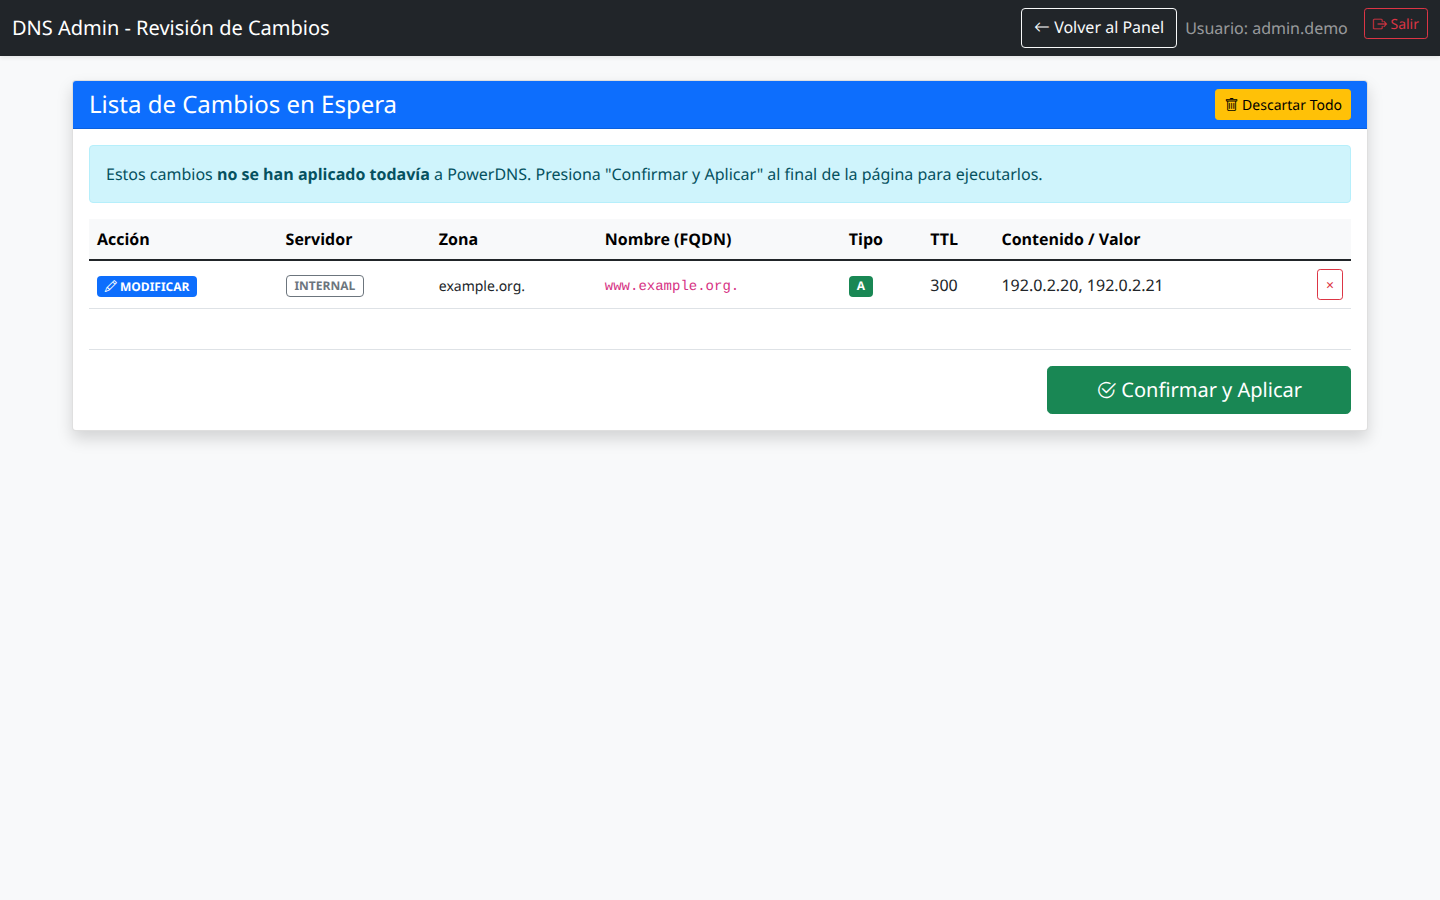
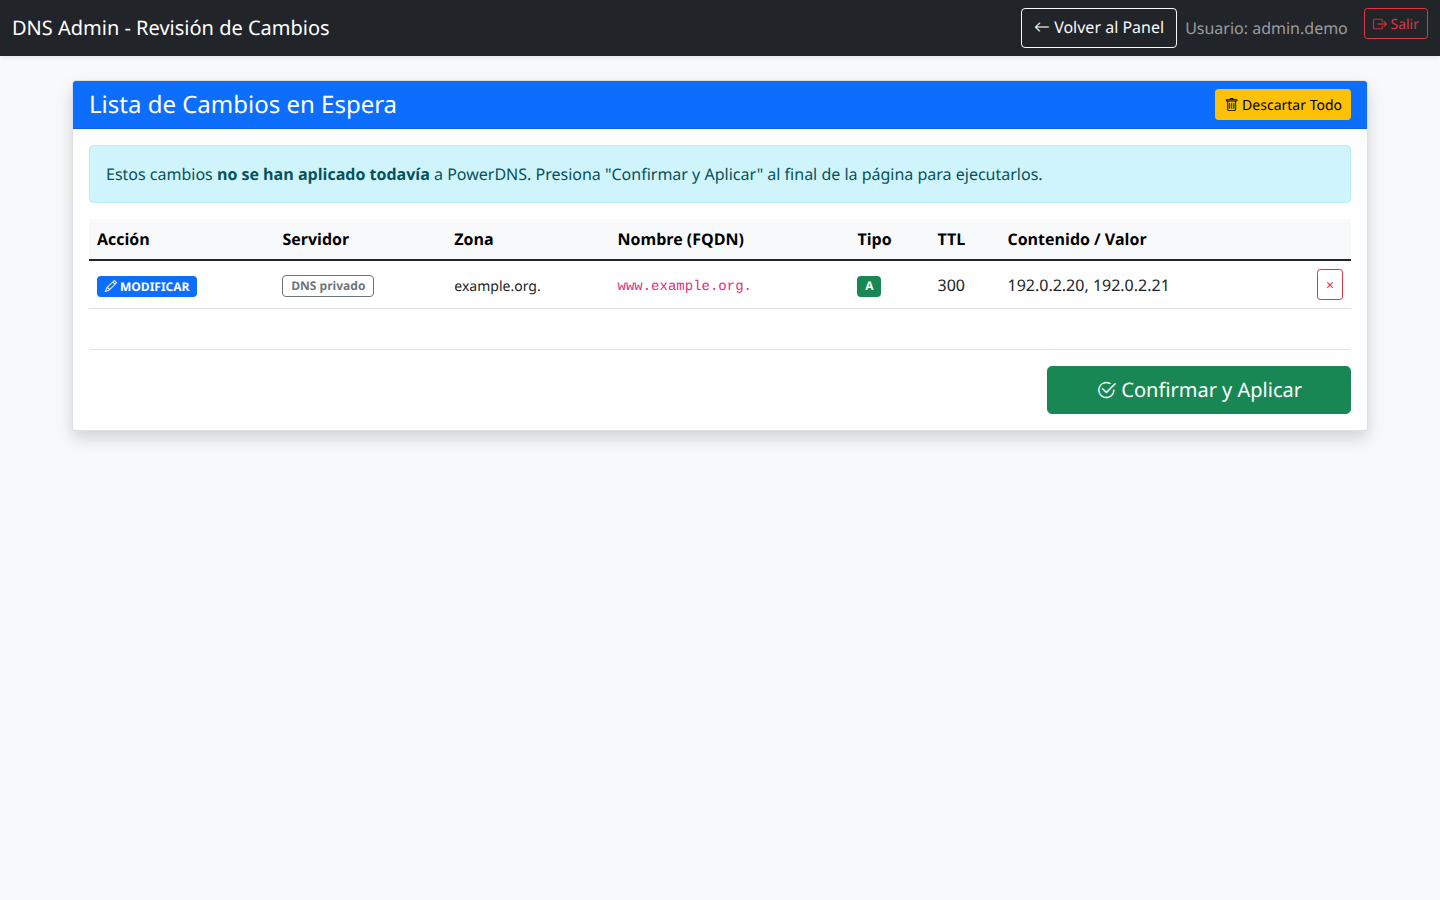
Clarify private and public DNS labels and simplify header

diff --git a/template/dashboard.html b/template/dashboard.html
@@ -101,15 +101,15 @@
 
 <body>
     <nav class="navbar navbar-dark sticky-top shadow-sm"
-        style="background-color: {% if current_server=='external' %}#ff7043{% else %}#1565c0{% endif %};">
+        style="background-color: {% if current_server=='external' %}#c2410c{% else %}#1565c0{% endif %};">
         <div class="container-fluid">
             <a class="navbar-brand d-flex align-items-center gap-2" href="/" style="font-size: 1.75rem;">
-                <i class="bi bi-hdd-network" aria-hidden="true"></i>DNS Admin {% if current_server=='external' %}(Internet){% else
-                %}(Interno){% endif %}            </a>
+                <i class="bi bi-hdd-network" aria-hidden="true"></i>DNS Admin
+            </a>
             <!-- pill fija con el servidor activo -->
             <span class="badge rounded-pill d-flex align-items-center gap-1 {% if current_server=='external' %}bg-dark{% else %}bg-light text-dark{% endif %}">
                 <i class="bi bi-{% if current_server=='external' %}globe-americas{% else %}hdd-network{% endif %}" aria-hidden="true"></i>
-                {% if current_server=='external' %}Internet{% else %}Interno{% endif %}
+                {% if current_server=='external' %}DNS público{% else %}DNS privado{% endif %}
             </span>
             <form action="{{ url_for('search_records') }}" method="GET" role="search"
                 class="mx-auto my-1" style="width: min(36rem, 100%);">
@@ -158,11 +158,11 @@
     <ul class="nav nav-tabs">
         <li class="nav-item">
             <a class="nav-link {% if current_server=='internal' and search_results is not defined %}active{% endif %}" href="/?server=internal"
-                style="background-color:#e0f7fa;"><i class="bi bi-hdd-network" aria-hidden="true"></i> Interno</a>
+                style="background-color:#e0f7fa;"><i class="bi bi-hdd-network" aria-hidden="true"></i> DNS privado</a>
         </li>
         <li class="nav-item">
             <a class="nav-link {% if current_server=='external' and search_results is not defined %}active{% endif %}" href="/?server=external"
-                style="background-color:#ffe0b2;"><i class="bi bi-globe-americas" aria-hidden="true"></i> Internet</a>
+                style="background-color:#ffe0b2;"><i class="bi bi-globe-americas" aria-hidden="true"></i> DNS público</a>
         </li>
     </ul>
     <div class="container mt-4">

diff --git a/template/review.html b/template/review.html
@@ -137,7 +137,7 @@
                                 </td>
                                 <td>
                                     <span class="badge border border-secondary text-secondary">
-                                        {{ c.server|default('internal')|upper }}
+                                        {% if c.server|default('internal') == 'external' %}DNS público{% else %}DNS privado{% endif %}
                                     </span>
                                 </td>
                                 <td><small>{{ c.zone }}</small></td>

diff --git a/README.md b/README.md
@@ -18,7 +18,7 @@ Las capturas se generaron a partir de las plantillas reales del proyecto con un 
 
 ## Funcionalidades
 
-- Selección de servidor **Interno** o **Internet**, cada uno con su URL y clave API.
+- Selección de servidor **DNS privado** o **DNS público**, cada uno con su URL y clave API.
 - Consulta de zonas y sus conjuntos de registros (RRsets).
 - Búsqueda global en el servidor seleccionado, con comodines `*` y `?`.
 - Alta, modificación y borrado de registros con revisión previa.
@@ -299,7 +299,7 @@ Copia las rutas de certificados y la dirección de escucha de tu antiguo script 
 ### Consultar y buscar
 
 1. Abre la aplicación e inicia sesión mediante Keycloak.
-2. Selecciona **Interno** o **Internet**. La cabecera cambia de color para identificar el servidor activo.
+2. Selecciona **DNS privado** o **DNS público**. La cabecera cambia de color para identificar el servidor activo.
 3. Haz clic en una zona para consultar nombres, tipos, TTL y valores.
 4. Usa la búsqueda de la cabecera para localizar registros en todas las zonas del servidor seleccionado. Por ejemplo, `www*` o `*example.org*`.
 
